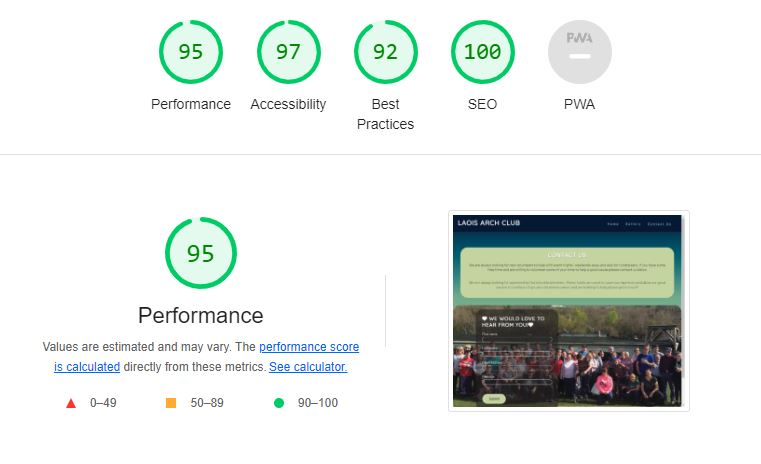
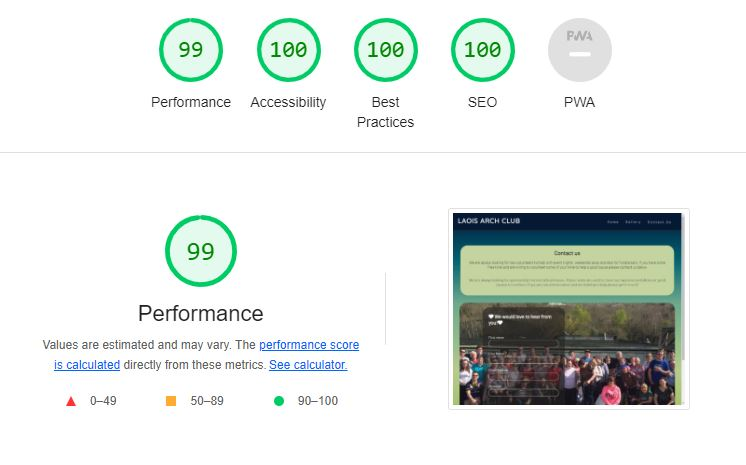
correct images for lighhouse and also add feedback image

diff --git a/README.md b/README.md
@@ -103,6 +103,9 @@ People who visit the page wiLL be able to find out when the next event is, keep 
 
   - Contact Us Page Lighthouse
     ![Lighthouse Contact Us Page](docs/screenshots/lighthouse-contact us.JPG)
+  
+  - Feedback Page Lighthouse
+    ![Lighthouse Feedback Page](docs/screenshots/lighthouse-feedback.JPG)
 
 ## Deployment
 
